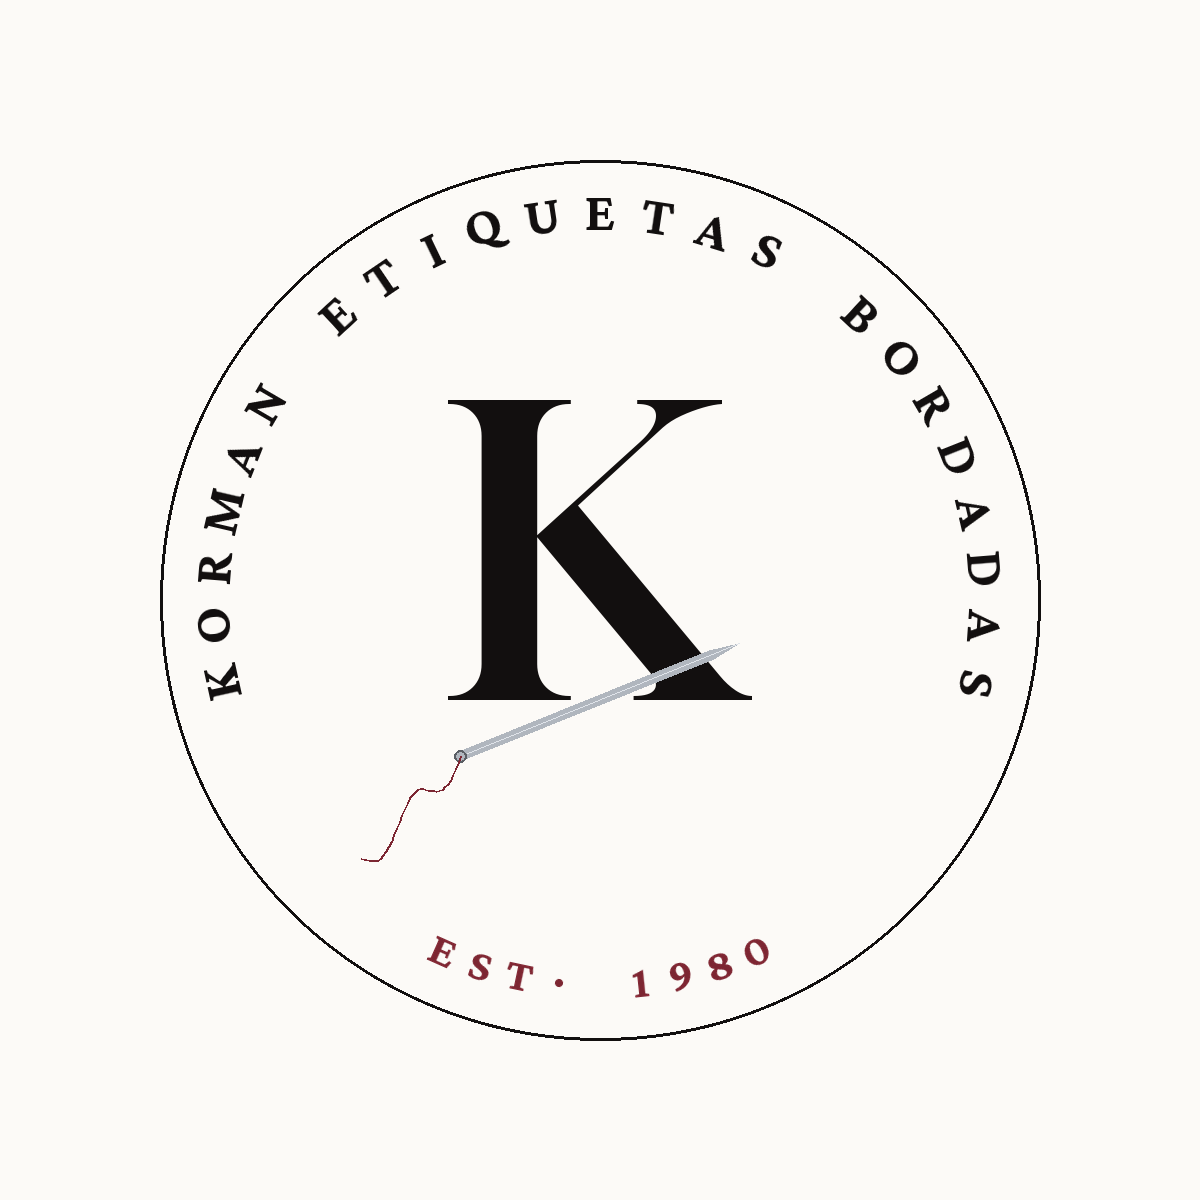
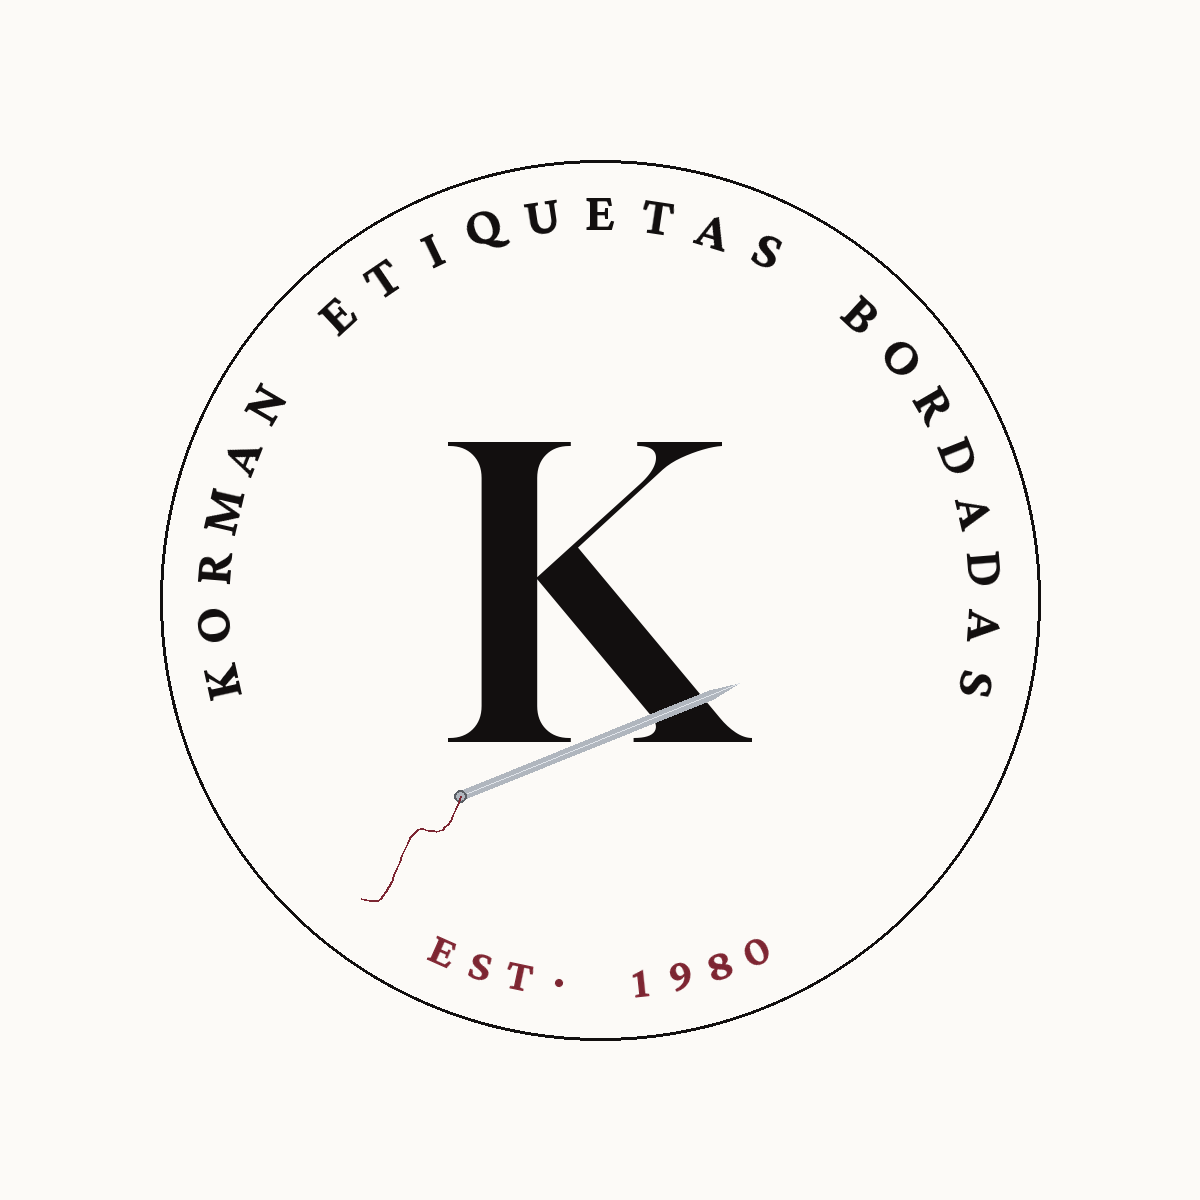
Sello circular: bajar K para balancear el espacio con EST. 1980
Claude-Session: https://claude.ai/code/session_017RDuaEkxS43SZ1xs4UNenw

Changed region(s): [[0.37, 0.3083, 0.6167, 0.6783], [0.37, 0.3083, 0.4625, 0.4008]]

diff --git a/generate_logo_circular_medio.py b/generate_logo_circular_medio.py
@@ -71,10 +71,10 @@ def limpio():
     # centrado exacto usando el bounding box real (compensa el margen lateral de la fuente)
     kb = d.textbbox((0,0),"K",font=f_k)
     kx = cx - (kb[0]+kb[2])//2
-    ky = cy - (kb[1]+kb[3])//2 - 50
+    ky = cy - (kb[1]+kb[3])//2 - 8
     d.text((kx,ky),"K",font=f_k,fill=BLACK)
     # aguja con hilo
-    ax1,ay1=aguja(d,cx,cy+100,math.radians(-22),300,hw=5)
+    ax1,ay1=aguja(d,cx,cy+140,math.radians(-22),300,hw=5)
     px,py=ax1,ay1
     for t in range(0,150,4):
         a=math.radians(-22)
